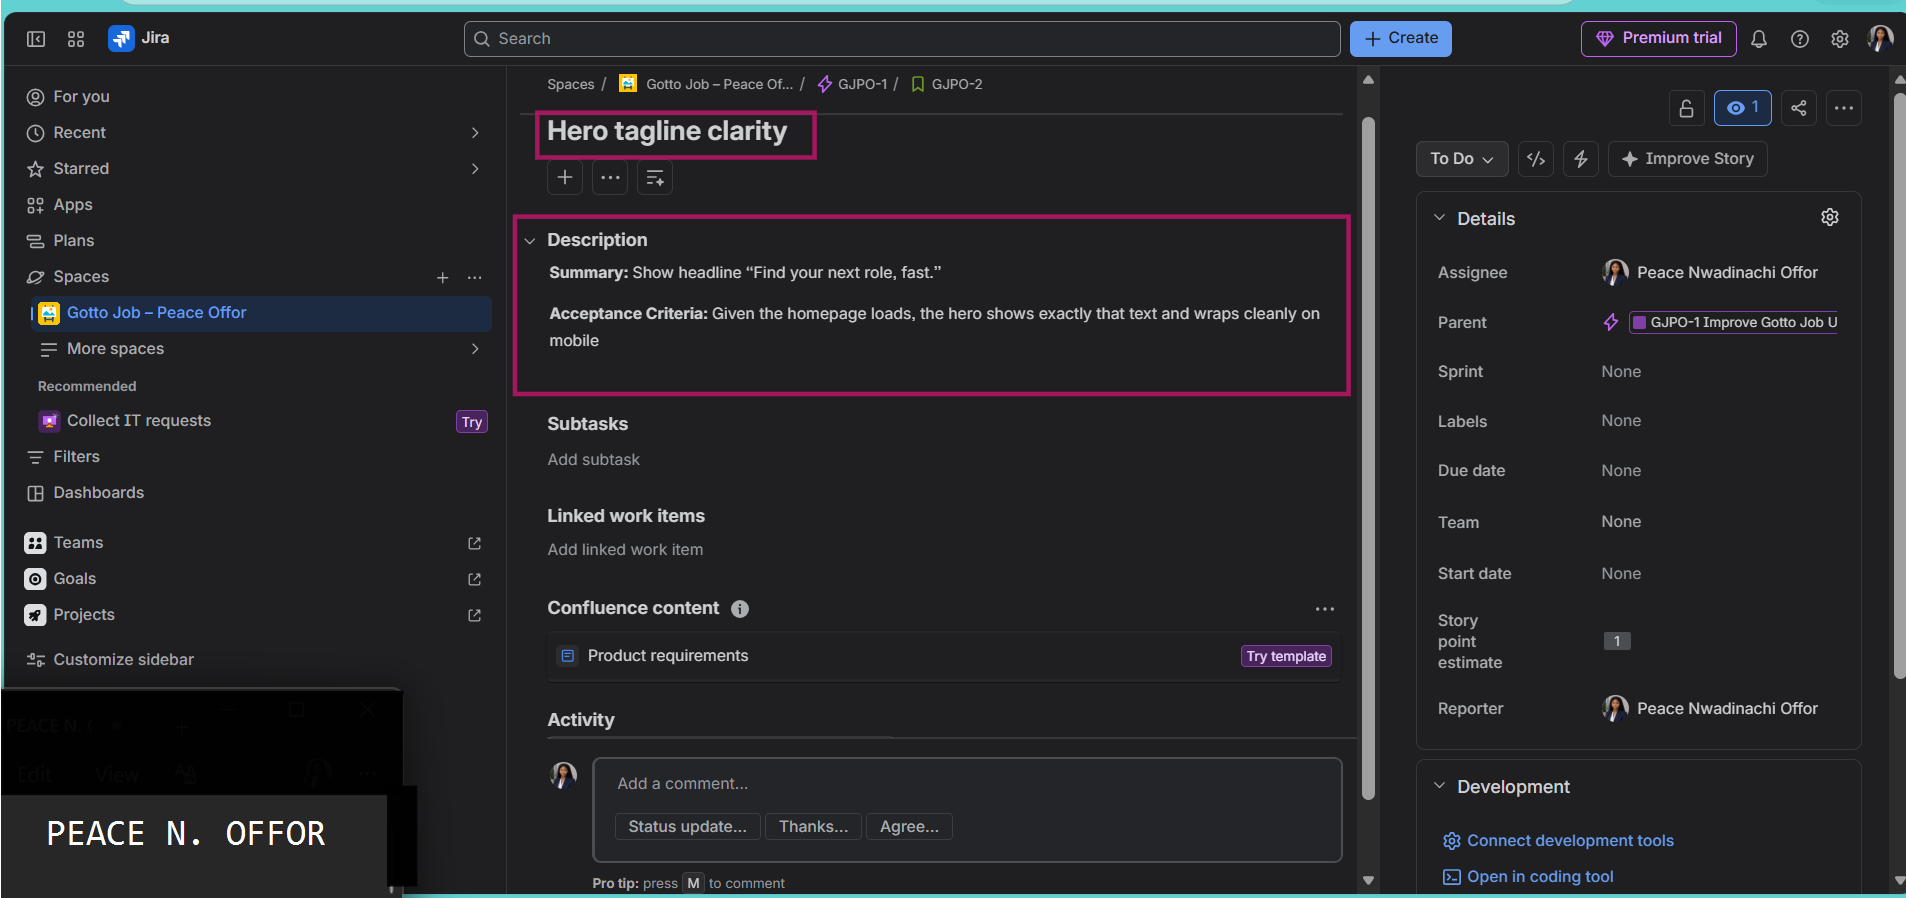
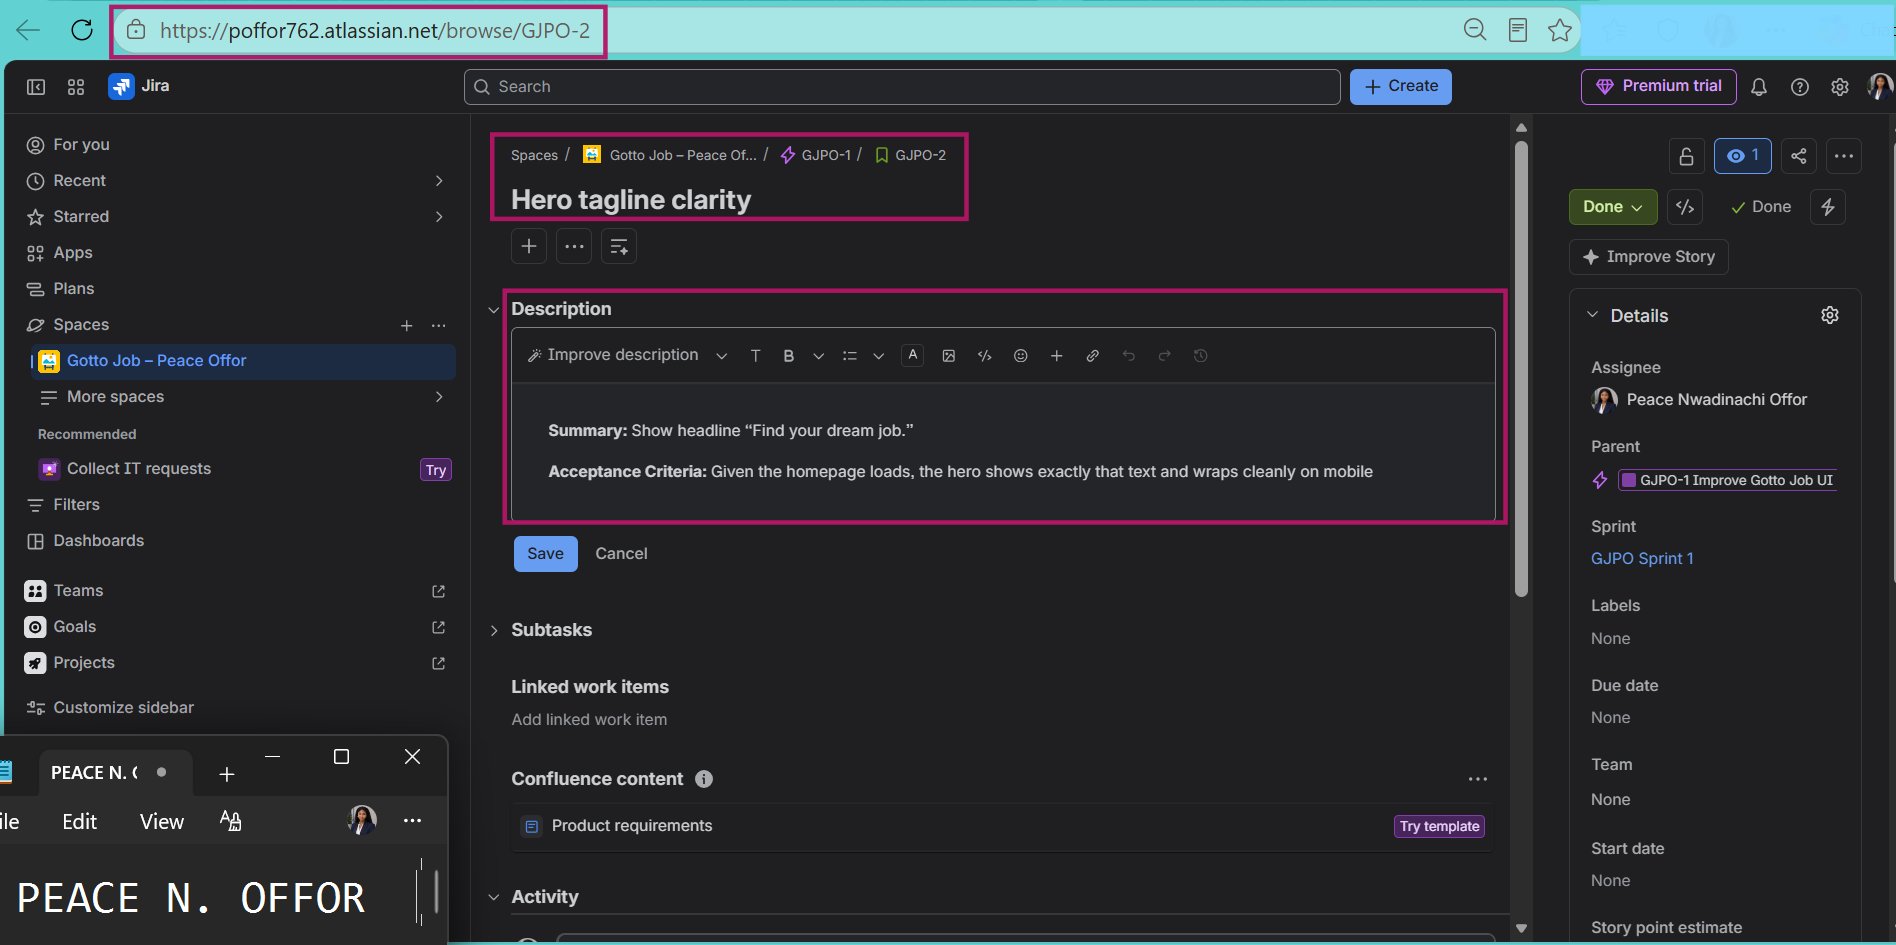
docs: complete Week 05 assignments 1-5, update README, screenshots and links

diff --git a/week-05-devops-lifecycle/assignment-04-gotto-job-backlog-refinement-and-sprint-1-in-jira.md b/week-05-devops-lifecycle/assignment-04-gotto-job-backlog-refinement-and-sprint-1-in-jira.md
@@ -217,7 +217,7 @@ Open the Burndown Chart and confirm it exists for Sprint 1. It is acceptable if 
 
 #### Screenshot 9 — Burndown Chart page opened, even if empty
 
-![Task 7](<screenshots/week 05-assignment 04-screenshot 9.png>).
+![Task 7](<screenshots/week 05-assignment 04-screenshot 9. png>).
 
 ---
 
@@ -237,13 +237,19 @@ Implement one small UI-only Story from Sprint 1, commit it, deploy it live, and 
 
 #### Screenshot 11 — Git commit output
 
-![Task 8.B](<screenshots/week 05-assignment 04-screenshot 11.png>).
+![Task 8.B](<screenshots/week 05-assignment 04-screenshot 11.A.png>).
+
+![Task 8.C](<screenshots/week 05-assignment 04-screenshot 11.B.png>).
 
 ---
 
 #### Screenshot 12 — Live URL in the browser showing the UI change, with the URL visible
 
-Add your screenshot here.
+![Task 9](<screenshots/week 05-assignment 04-screenshot 12.A.png>).
+![Task 9](<screenshots/week 05-assignment 04-screenshot 12.B.png>).
+![Task 9](<screenshots/week 05-assignment 04-screenshot 12.C.png>).
+![Task 9](<screenshots/week 05-assignment 04-screenshot 12.D.png>).
+
 
 ---
 
@@ -257,7 +263,7 @@ Add a retro comment covering what went well, what to improve, one Scrum pillar o
 
 #### Screenshot 13 — Jira retro comment visible
 
-Add your screenshot here.
+![Task 9](<screenshots/week 05-assignment 04-screenshot 13.png>).
 
 ---
 
@@ -273,13 +279,13 @@ Publish a LinkedIn post about what you delivered, including your live URL, three
 
 Paste your LinkedIn post URL here:
 
-`Add your URL here`
+`https://www.linkedin.com/posts/peace-offor-aa736a147_dmibypravinmishra-devops-agile-ugcPost-7491650701010481154-BMWl/?utm_source=share&utm_medium=member_desktop&rcm=ACoAACN4g58BM2OoiPOU_M6YmR_9gplw4hlL_RQ`
 
 ---
 
 #### Screenshot 14 — Published LinkedIn post
 
-Add your screenshot here.
+![Task 10](<screenshots/week 05-assignment 04-screenshot 14.png>).
 
 ---
 
